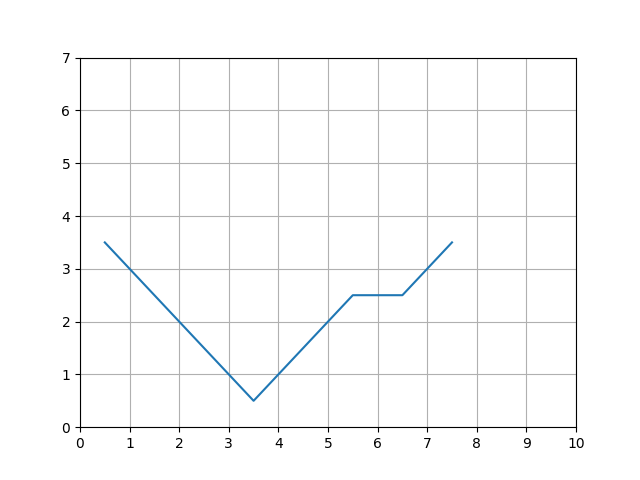
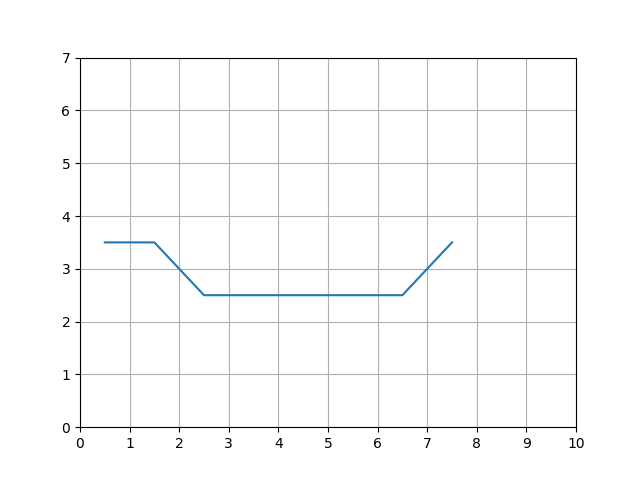
add exercise 6.10 code

diff --git a/rl_sutton/chapter06/program1.py b/rl_sutton/chapter06/program1.py
@@ -9,19 +9,32 @@ import matplotlib.pyplot as plt
 # length and width of the grid
 LENGTH, WIDTH = 10, 7
 
-# type of action North, South, East, West movement
-MAP_ACTION = {0: (-1, 0), 1: (0, 1), 2: (1, 0), 3: (0, -1)}
+# MAX_DISTANCE
+MAX_DISTANCE = LENGTH*WIDTH
 
-MAP_ACTION_TO_DIR = {0: 'N', 1: 'E', 2: 'S', 3: 'W'}
+EXAMPLE_6_5 = {0: (-1, 0), 1: (0, 1), 2: (1, 0), 3: (0, -1)}
+
+EXERCISE_6_9_1 = {0: (-1, 0), 1: (0, 1), 2: (1, 0), 3: (0, -1), 4: (1, 1), 5: (-1, -1), 6: (1, -1), 7: (-1, 1)}
+
+EXERCISE_6_9_2 = {0: (-1, 0), 1: (0, 1), 2: (1, 0), 3: (0, -1), 4: (1, 1), 5: (-1, -1), 6: (1, -1), 7: (-1, 1), 8: (0, 0)}
+
+# type of action North, South, East, West movement
+MAP_ACTION = EXERCISE_6_9_1 
 
 
 class Environment:
     def __init__(self):
         self.start, self.goal = (3, 0), (3, 7)
         self.wind = [0, 0, 0, 1, 1, 1, 2, 2, 1, 0]
+        self.stochastic_wind = [0, -1, 1]
 
     def get_wind_value(self, x, y):
         return self.wind[y]
+
+    def stochastic_wind_direction(self, x, y):
+        if self.wind[y] == 0:
+            return 0
+        return self.stochastic_wind[np.random.randint(3)]
 
     def get_start(self):
         return self.start
@@ -29,14 +42,17 @@ class Environment:
     def is_goal(self, x, y):
         return x == self.goal[0] and y == self.goal[1]
 
-    def get_new_pos(self, x, y, a):
+    def get_new_pos(self, x, y, a, stochastic=False):
         xmove, ymove = MAP_ACTION[a]
         xnew, ynew = x+xmove, y+ymove
         rwd = -1
         if xnew < 0 or ynew < 0 or xnew >= WIDTH or ynew >= LENGTH:
             return x, y, rwd
         wind_value = self.get_wind_value(x, y)
-        return max(0, xnew-wind_value), ynew, rwd
+        if stochastic:
+            wind_value += self.stochastic_wind_direction(x, y)
+        xnew = min(WIDTH-1, max(0, xnew-wind_value))
+        return xnew, ynew, rwd
 
 
 class QState:
@@ -90,13 +106,13 @@ class TD0:
                 q_greedy = qa
         self.policy[x][y] = q_greedy.a
 
-    def estimate(self, episodes=3000):
+    def estimate(self, episodes=3000, stochastic=False):
         for ep in range(1, episodes+1):
             start_x, start_y = self.env.get_start()
             curr_action = self.select_action(start_x, start_y)
             q = self.map_id_to_qstate[QState(start_x, start_y, curr_action).hash()]
             while not self.env.is_goal(q.x, q.y):
-                next_x, next_y, rwd = self.env.get_new_pos(q.x, q.y, q.a)
+                next_x, next_y, rwd = self.env.get_new_pos(q.x, q.y, q.a, stochastic)
                 next_a = self.select_action(next_x, next_y)
                 next_q = self.map_id_to_qstate[QState(next_x, next_y, next_a).hash()]
                 q.update(rwd, next_q.q)
@@ -104,13 +120,19 @@ class TD0:
                 q = next_q
         return self.policy
 
+
 def save_figure(policy, env):
     X, Y = [], []
     x, y = env.get_start()
     X.append(y+0.5); Y.append(6-x+0.5)
+    dist = 1
     while not env.is_goal(x, y):
         x, y, _ = env.get_new_pos(x, y, policy[x][y])
         X.append(y+0.5); Y.append(6-x+0.5)
+        dist += 1
+        if dist > MAX_DISTANCE:
+            print("Not able to find path from start to goal. More episodes are needed to converge")
+            break
     fig = plt.figure()
     ax = fig.add_subplot(1, 1, 1)
     ax.plot(X, Y)
@@ -119,12 +141,13 @@ def save_figure(policy, env):
     ax.set_xticks(xtick)
     ax.set_yticks(ytick)
     plt.grid(which='major')
-    plt.savefig("figure6_5.png")
+    plt.savefig("figure6_9_1.png")
+
 
 def main():
     env = Environment()
     td0 = TD0(env)
-    policy = td0.estimate(10000)
+    policy = td0.estimate(8000, stochastic=False)
     save_figure(policy, env)
 
 
